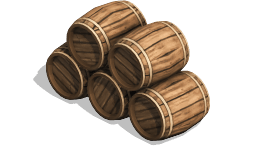
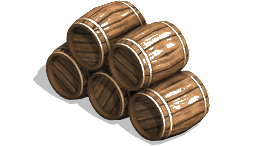
sup

diff --git a/Diablo/Map.java b/Diablo/Map.java
@@ -154,7 +154,7 @@ public class Map{
 	}	
 	public void parseJSON() throws IOException, ParseException {
 		filesInFolder(folders);
-		Object obj = new JSONParser().parse(new FileReader(Game.root + "/resources/maps/" + "test2" + ".json")); 
+		Object obj = new JSONParser().parse(new FileReader(Game.root + "/resources/maps/" + "MAP1" + ".json")); 
 		JSONObject jo = (JSONObject) obj; 
 		String layerList = jo.get("nodeList").toString();
 		
@@ -180,12 +180,12 @@ public class Map{
 		for(int i = 0; i < array.size(); i++) {
 			Iterator<JSONObject> iterator = ((JSONArray) array.get(i)).iterator();
 			parseThis = (JSONObject) new JSONParser().parse((iterator.next().toString()));
-			if(((Long)parseThis.get("layer")).intValue() == 0) {
+//			if(((Long)parseThis.get("layer")).intValue() == 0) {
 				Renderer.populateArray(parseThis);
-				}
-			else {
-				makeUnique(parseThis);
-			}			
+//				}
+//			else {
+//				makeUnique(parseThis);
+//			}			
 		}
 		
 		String spriteList = jo.get("spriteList").toString();
@@ -211,22 +211,23 @@ public class Map{
 		 if(index == -1) {
 			 return;
 		 }
-		 Image  image = ImageIO.read(new File(Game.root + "/resources/maps/test6/" + (String) Map.imageFiles.get(index)));
+		 String indexStr = node.get("picture").toString();
+		 Image  image = ImageIO.read(new File(Game.root + "/resources/maps/test6/" + indexStr));
 		 int x = ((Long) node.get("x")).intValue();
 		 int y = ((Long) node.get("y")).intValue();
 		 int width = image.getWidth(null);
 		 int height = image.getHeight(null);
-		 String indexStr = index + "";
+		 
 //		 Entity temp = new Entity(indexStr, Map.imageToArray(index), x, y, 1, width, height);
 		 for(int i = 0; i < Game.obstacle.size(); i++) {
 			 if((Game.obstacle.get(i)).characterName.equals(indexStr)) {
 					//reference	
-				 Game.obstacle.add(new Entity(indexStr, Game.obstacle.get(i).imageData, x, y+(height/2), y, width, height));
+				 Game.obstacle.add(new Entity(indexStr, Game.obstacle.get(i).imageData, x, y + 380, y, width, height));
 						return;
 					}
 				}
 		 //create nwe
-		 Game.obstacle.add(new Entity(indexStr, imageToArray(index, ((Long)node.get("layer")).intValue()), x, y+(height/2), y, width, height));
+		 Game.obstacle.add(new Entity(indexStr, imageToArray(indexStr, ((Long)node.get("layer")).intValue()), x, y + 380, y, width, height));
 //			 temp=null;
 			 return;
 	 }
@@ -244,38 +245,38 @@ public class Map{
 			 }
 		 }
 	 }
-	 public void populate(JSONObject node) throws IOException {
-		 int index = ((Long)node.get("image_index")).intValue();
-		 if(index == -1) {
-			 return;
-		 }
-		 Image  image = ImageIO.read(new File(game.root + "/resources/maps/test6/" + (String) imageFiles.get(index)));
-		 int x = ((Long) node.get("x")).intValue();
-		 int y = ((Long) node.get("y")).intValue();
-		 int width = image.getWidth(null);
-		 int height = image.getHeight(null);
-		 for(int i = 0; i < Game.uniqueTiles.size(); i++) {
-//		    	for(int i = 0; i < 5; i++) {
-//		    		System.out.println((node.keySet()));
-//		    		if(((Long)(((HashMap) Map.arr1.get(i)).get("image_index"))).intValue() != -1)
-//					System.out.println(((HashMap) Map.arr2.get(((Long)(((HashMap) Map.arr1.get(i)).get("image_index"))).intValue())).keySet());
-					if(Game.uniqueTiles.get(i).name == index + ""){
-//						worldBuffer[]
-						
-						Game.display.getRendererObject().worldBuffer[x + y * Renderer.mapWidth] = Game.uniqueTiles.get(i); 
-//								= new Animation(index + "", imageToArray(index), width, height, width, x , y);
-						break;
-					}
-				}
-		 if(((Long) node.get("layer")).intValue() == 0){
-			 Game.uniqueTiles.add(new Animation(index + "", imageToArray(index, ((Long)node.get("layer")).intValue()), width, height, width, x , y));
-		 }
-		 else {
-			 
-		 }
-	 }
+//	 public void populate(JSONObject node) throws IOException {
+//		 int index = ((Long)node.get("image_index")).intValue();
+//		 if(index == -1) {
+//			 return;
+//		 }
+//		 Image  image = ImageIO.read(new File(game.root + "/resources/maps/test6/" + (String) imageFiles.get(index)));
+//		 int x = ((Long) node.get("x")).intValue();
+//		 int y = ((Long) node.get("y")).intValue();
+//		 int width = image.getWidth(null);
+//		 int height = image.getHeight(null);
+//		 for(int i = 0; i < Game.uniqueTiles.size(); i++) {
+////		    	for(int i = 0; i < 5; i++) {
+////		    		System.out.println((node.keySet()));
+////		    		if(((Long)(((HashMap) Map.arr1.get(i)).get("image_index"))).intValue() != -1)
+////					System.out.println(((HashMap) Map.arr2.get(((Long)(((HashMap) Map.arr1.get(i)).get("image_index"))).intValue())).keySet());
+//					if(Game.uniqueTiles.get(i).name == index + ""){
+////						worldBuffer[]
+//						
+//						Game.display.getRendererObject().worldBuffer[x + y * Renderer.mapWidth] = Game.uniqueTiles.get(i); 
+////								= new Animation(index + "", imageToArray(index), width, height, width, x , y);
+//						break;
+//					}
+//				}
+//		 if(((Long) node.get("layer")).intValue() == 0){
+//			 Game.uniqueTiles.add(new Animation(index + "", imageToArray(index, ((Long)node.get("layer")).intValue()), width, height, width, x , y));
+//		 }
+//		 else {
+//			 
+//		 }
+//	 }
 	 
-	 public static int[] imageToArray(int index, int layer) throws IOException {
+	 public static int[] imageToArray(String name, int layer) throws IOException {
 		  BufferedImage image;
 //		  int width;
 //		  int height;
@@ -283,7 +284,7 @@ public class Map{
 //			 
 //			  //System.out.println("spriteList size: " + spriteList.size() + "; i: " + i + "; width: " + width + "; height: " + height);
 //			  if(i != 90) { //remove later, there was a 8mb borken picture for some reason
-				  image = ImageIO.read(new File(Game.root + "/resources/maps/test6/" + (String) imageFiles.get(index)));
+				  image = ImageIO.read(new File(Game.root + "/resources/maps/test6/" + name));
 //				  System.out.println(i);
 //				  width = ((Long) ((HashMap) spriteList.get(i)).get("width")).intValue();
 //				  height = ((Long)((HashMap) spriteList.get(i)).get("height")).intValue();

diff --git a/Diablo/Game.java b/Diablo/Game.java
@@ -160,8 +160,8 @@ public class Game
         //displayThread.start();
 
         //new Thread(dataUpdate).start();
-        renderTimer.scheduleAtFixedRate(frameUpdate, 0, 1000 / 30);
-        timeTimer.scheduleAtFixedRate(timeCounter, 0, 10);
+//        renderTimer.scheduleAtFixedRate(frameUpdate, 0, 1000 / 30);
+        timeTimer.scheduleAtFixedRate(timeCounter, 0, 1);
         mouse = new MouseControl(this);
 
         receiver = new Receiver(this, 20000);
@@ -170,13 +170,31 @@ public class Game
         sender = new Sender(this, 10000);
         sendTimer.scheduleAtFixedRate(send, 0, 1);
 		 
-		 /*
-		 while(true)
-		 {
-			
-			 display.update();
-		 }
-		 */
+        int timeSegment = 0;
+        int waitTime = 0;
+        while(true)
+        {
+            timeSegment = gameTime + 30;
+            display.update();
+
+            waitTime = timeSegment - gameTime;
+//            System.out.println(waitTime);
+
+            if(waitTime > 0)
+            {
+                try {
+                       Thread.sleep(waitTime);
+                   } catch (InterruptedException e) {
+                       // TODO Auto-generated catch block
+                       e.printStackTrace();
+                   }
+            }
+            else
+            {
+                System.out.println("time slice exceeded");
+            }
+
+        }
 
     }
 
@@ -449,7 +467,6 @@ class DisplayThread implements Runnable
 		  
 		public void run()
 		{
-
 			System.out.println("repainting");
 			game.display.update();
 			//display.getRendererObject().repaintt();

diff --git a/Diablo/Renderer.java b/Diablo/Renderer.java
@@ -623,21 +623,22 @@ class Renderer extends JPanel{
 		 if(index == -1) {
 			 return;
 		 }
-		 Image  image = ImageIO.read(new File(Game.root + "/resources/maps/test6/" + (String) Map.imageFiles.get(index)));
+		 String indexStr = node.get("picture").toString();
+		 Image  image = ImageIO.read(new File(Game.root + "/resources/maps/test6/" + indexStr));
 		 int x = ((Long) node.get("x")).intValue();
 		 int y = ((Long) node.get("y")).intValue();
 		 int width = image.getWidth(null);
 		 int height = image.getHeight(null);
-		 String indexStr = index + "";
+		
 //		 Animation temp = new Animation(indexStr, Map.imageToArray(index), width, height, width, x , y);
 		 for(int i = 0; i < Game.uniqueTiles.size(); i++) {
 			 if(Game.uniqueTiles.get(i).name.equals(indexStr)) {
-						worldBuffer[(x/tW) + (y/tH) * mapWidth] = 
+						worldBuffer[(x/width) + (y/height) * mapWidth] = 
 								new Animation(indexStr, Game.uniqueTiles.get(i).imageData, width, height, width, x , y);//Game.uniqueTiles.get(i); 
 						return;
 					}
 				}
-			 Game.uniqueTiles.add(new Animation(indexStr, Map.imageToArray(index, ((Long)node.get("layer")).intValue()), width, height, width, x , y));
+			 Game.uniqueTiles.add(new Animation(indexStr, Map.imageToArray(indexStr, 0), width, height, width, x , y));
 //			 temp=null;
 			 return;
     }

diff --git a/Diablo/Entity.java b/Diablo/Entity.java
@@ -281,7 +281,6 @@ public class Entity{
 		this.game = game;
 		this.x = x;
 		this.y = y;
-
 	}
 */
 	public Entity(Game game, String name, int destinationX, int destinationY, int hitBox) throws IOException {
